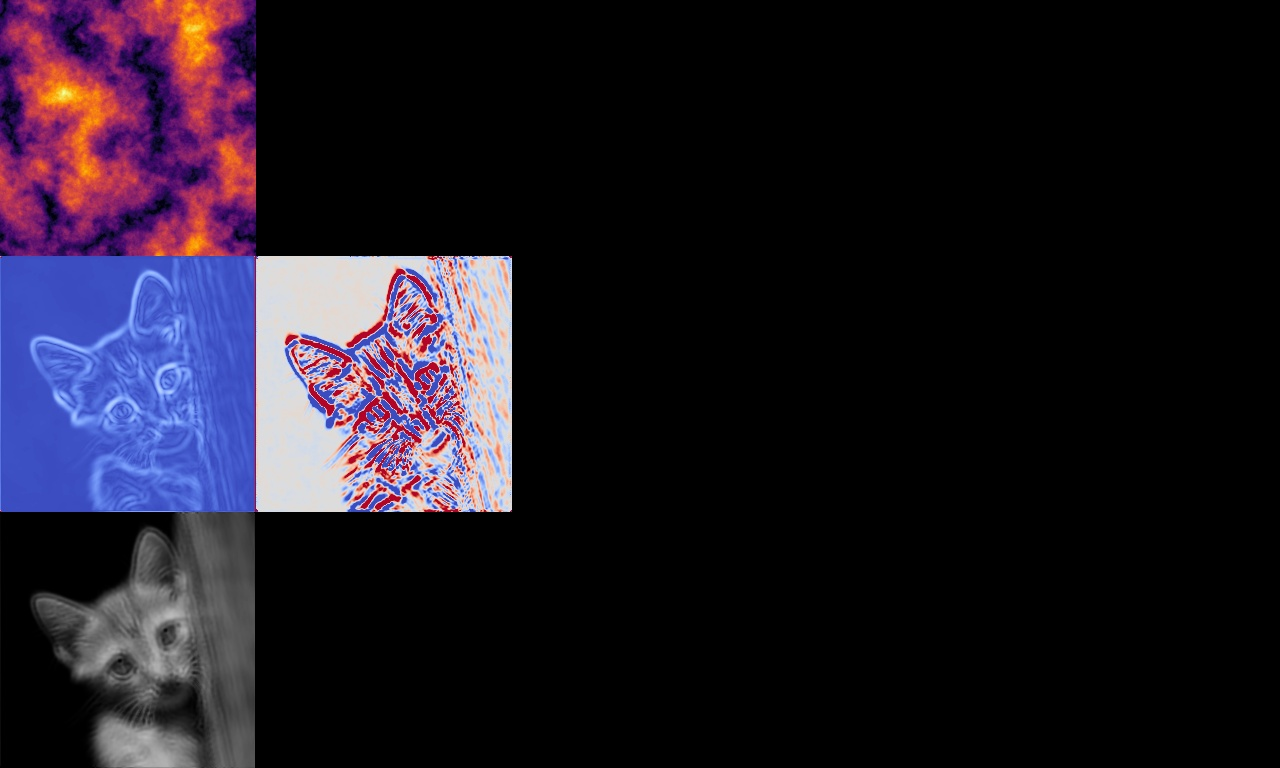
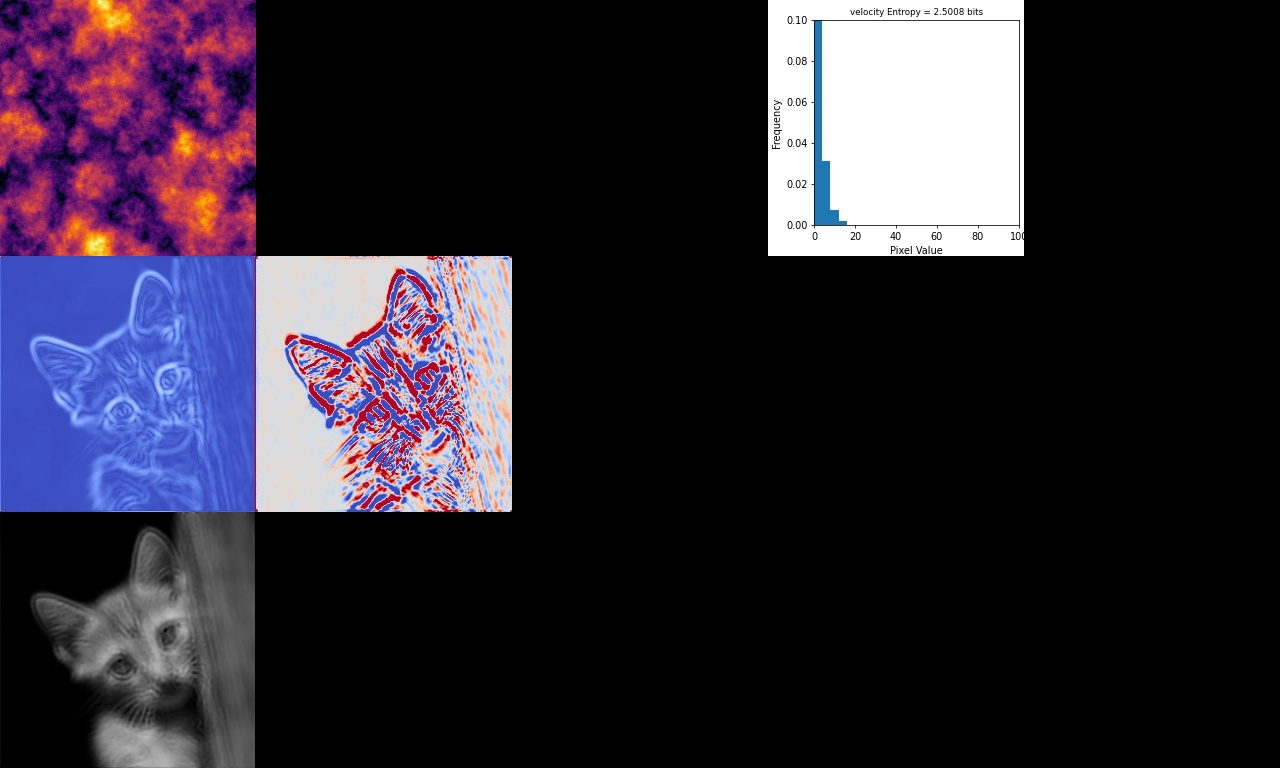
Velocity_histogram_of_NS_diffusion

Changed region(s): [[0.5938, 0.0, 0.8125, 0.3438], [0.0, 0.0, 0.2188, 0.3438]]

diff --git a/numerical_solvers/visualization/CanvasPlotter.py b/numerical_solvers/visualization/CanvasPlotter.py
@@ -7,11 +7,12 @@ import cv2
 from skimage import data, img_as_float
 from skimage.metrics import structural_similarity as ssim
 from skimage.metrics import mean_squared_error
+from scipy.stats import maxwell
 
 from numerical_solvers.solvers.LBM_SolverBase import LBM_SolverBase
 from numerical_solvers.visualization.KolmogorovSpectrumPlotter import KolmogorovSpectrumPlotter
 from numerical_solvers.visualization.MetricPlotter import MSEPlotter, SSIMPlotter
-
+from numerical_solvers.visualization.histogram_plotter import VelocityHistogramPlotter
 class CircularBuffer:
     def __init__(self, buffer_size, array_shape):
         """
@@ -215,7 +216,7 @@ class CanvasPlotter:
         else:
             force_energy_spectrum =  self.dummy_canvas   
         
-        # rho_histogram_rgb = make_canvas_histogram(rho_cpu, gray_min, gray_max)
+        # rho_histogram_rgb = make_canvas_histogram(rho_cpu, rho_cpu.min(), rho_cpu.max(), "rho")
         # rho_histogram_rgba = cm.ScalarMappable().to_rgba(np.flip(np.transpose(rho_histogram_rgb, (1, 0, 2)), axis=1)) 
 
 
@@ -230,6 +231,7 @@ class CanvasPlotter:
             if img_energy_difference is None:  # Only set initially if it's not already initialized
                 img_energy_difference = self.render_rho(np.zeros(vel_img.shape))
                 img_rho_difference = self.render_rho(np.zeros(vel_img.shape))
+                
         else:
             
                 # Update img_energy_difference only on every second step
@@ -264,7 +266,19 @@ class CanvasPlotter:
             img_energy_difference = np.zeros(vel_img.shape)
 
 
+        vel_histogram_rgb = make_canvas_histogram(vel_mag_img, vel_mag_img.min(), vel_mag_img.max(), "velocity")
+        vel_histogram_rgba = cm.ScalarMappable().to_rgba(np.flip(np.transpose(vel_histogram_rgb, (1, 0, 2)), axis=1)) 
+
+
+
+        # n_particles = 256 * 256  # Total number of "particles" or grid points
+        # vel_cpu_reshaped = vel_cpu.reshape((n_particles, 2))  # Shape becomes (65536, 2)
+        # velocity_plotter = VelocityHistogramPlotter(title='Vel')
+        # velocity_histogram_image = velocity_plotter(vel_cpu_reshaped, bins=50, temperature=1.0, mass=1.0)
+        # print(velocity_histogram_image.shape)
+        
         # fourth row
+
         if self.solver.iterations_counter < 2:
             # For the first two iterations, initialize with a zero image or keep the last known value
             mse_rho_image = self.dummy_canvas
@@ -306,11 +320,13 @@ class CanvasPlotter:
             else:
                 ssim_energy_image = self.dummy_canvas
 
+        
     
+
         img_col1 = np.concatenate((rho_img, vel_img, force_img), axis=1)
         img_col2 = np.concatenate((rho_energy_spectrum, vel_energy_spectrum, force_energy_spectrum), axis=1)
-        img_col3 = np.concatenate((self.dummy_canvas, img_rho_difference, img_energy_difference), axis=1)
-        img_col4 = np.concatenate((mse_rho_image, mse_energy_image, self.dummy_canvas), axis=1)
+        img_col3 = np.concatenate((img_rho_difference, img_energy_difference,  self.dummy_canvas), axis=1)
+        img_col4 = np.concatenate((mse_rho_image, mse_energy_image, vel_histogram_rgba), axis=1)
         img_col5 = np.concatenate((ssim_rho_image, ssim_energy_image, self.dummy_canvas), axis=1)
 
 
@@ -325,7 +341,7 @@ class CanvasPlotter:
         cv2.imwrite(filepath, np.rot90(img_bgr))
     
     
-def make_canvas_histogram(image_array, min_val, max_val):
+def make_canvas_histogram(image_array, min_val, max_val, title):
     matplotlib.use('Agg')
     # Calculate the histogram
     
@@ -340,23 +356,23 @@ def make_canvas_histogram(image_array, min_val, max_val):
     entropy = -np.sum([p * np.log2(p) for p in probability_distribution if p > 0])
 
     # Display the histogram
-    my_dpi = 100
+    my_dpi = 70
     w, h = uint8_image.shape
     fig = plt.figure(figsize=(w/my_dpi, h/my_dpi), dpi=my_dpi)
     
     # Create Axes with space for the title and labels
     # ax = fig.add_axes([0, 0, 1, 1])  # [left, bottom, width, height] as fractions of the figure size
-    ax = fig.add_axes([0.1, 0.1, 0.8, 0.8])  # [left, bottom, width, height] as fractions of the figure size
+    ax = fig.add_axes([0.18, 0.12, 0.8, 0.8])  # [left, bottom, width, height] as fractions of the figure size
     
     # Plot the histogram
-    ax.set_xlim([0, 255])
-    ax.set_ylim([0, 0.015])
-    ax.hist(uint8_image.flatten(), bins=256, density=True)
+    ax.set_xlim([0, 100])
+    ax.set_ylim([0, 0.1])
+    ax.hist(uint8_image.flatten(), bins=64, density=True)
 
     # Set title and labels
     # ax.text(10, 10, "Sample Text", color='white', fontsize=14, ha='left', va='top')
 
-    ax.set_title(f'Entropy = {entropy:.4f} bits', fontsize=9) 
+    ax.set_title(f'{title} Entropy = {entropy:.4f} bits', fontsize=9) 
     ax.set_xlabel('Pixel Value')
     ax.set_ylabel('Frequency')
     

diff --git a/numerical_solvers/visualization/histogram_plotter.py b/numerical_solvers/visualization/histogram_plotter.py
@@ -1,0 +1,71 @@
+import matplotlib.pyplot as plt
+import numpy as np
+from scipy.stats import maxwell
+import matplotlib
+
+import matplotlib.cm as cm
+
+
+class VelocityHistogramPlotter:
+    def __init__(self, title='Velocity Distribution (Boltzmann)'):
+        """
+        Initialize the plotter with a title for the plot.
+        
+        Args:
+            title (str): Title for the plot.
+        """
+        self.title = title
+
+    def __call__(self, velocity_vectors, bins=50, temperature=1.0, mass=1.0):
+        """
+        Plot the histogram of velocity magnitudes and the theoretical Boltzmann distribution.
+
+        Args:
+            velocity_vectors (np.ndarray): Array of velocity vectors, shape (n_particles, n_dimensions).
+            bins (int): Number of bins for the histogram.
+            temperature (float): Temperature parameter for the Boltzmann distribution.
+            mass (float): Mass of the particles for the Boltzmann distribution.
+        
+        Returns:
+            np.ndarray: Rendered image of the velocity histogram plot in RGBA format.
+        """
+        # Calculate the magnitudes of the velocity vectors
+        if velocity_vectors.ndim != 2:
+            raise ValueError("Input 'velocity_vectors' must be a 2D array with shape (n_particles, n_dimensions).")
+        
+        speeds = np.linalg.norm(velocity_vectors, axis=1)  # Ensure speeds is a 1D array
+        # print(speeds.shape)
+
+        # Calculate the theoretical Boltzmann distribution
+        v = np.linspace(0, np.max(speeds), 500)
+        boltzmann_dist = maxwell.pdf(v, scale=np.sqrt(temperature / mass))
+
+        # Initialize the plot with desired resolution
+        my_dpi = 50
+        fig = plt.figure(figsize=(256 / my_dpi, 256 / my_dpi), dpi=my_dpi)  # 256x256 pixels
+        ax = fig.add_axes([0.1, 0.1, 0.8, 0.8])  # [left, bottom, width, height] as fractions of the figure size
+
+        # Plot the histogram of speeds
+        ax.hist(speeds, bins=bins, density=True, alpha=0.6, color='b', label='Velocity Magnitude Histogram')
+
+        # Plot the theoretical Boltzmann distribution
+        ax.plot(v, boltzmann_dist, 'r-', lw=2, label='Boltzmann Distribution')
+
+        # Add grid, title, and labels
+        ax.grid(True, which="both", ls="--")
+        ax.set_title(self.title, fontsize=14)
+        ax.set_xlabel('Speed')
+        ax.set_ylabel('Probability Density')
+        ax.legend(loc='best')
+
+        # Render the figure to a NumPy array
+        fig.canvas.draw()
+        canvas = np.frombuffer(fig.canvas.tostring_rgb(), dtype=np.uint8)
+        canvas = canvas.reshape(fig.canvas.get_width_height()[::-1] + (3,))
+        
+        plt.close(fig)   # Close the Matplotlib figure
+        
+        # Convert RGB to RGBA by adding an alpha channel
+        canvas_rgba = cm.ScalarMappable().to_rgba(np.flip(np.transpose(canvas, (1, 0, 2)), axis=1))
+        
+        return canvas_rgba
